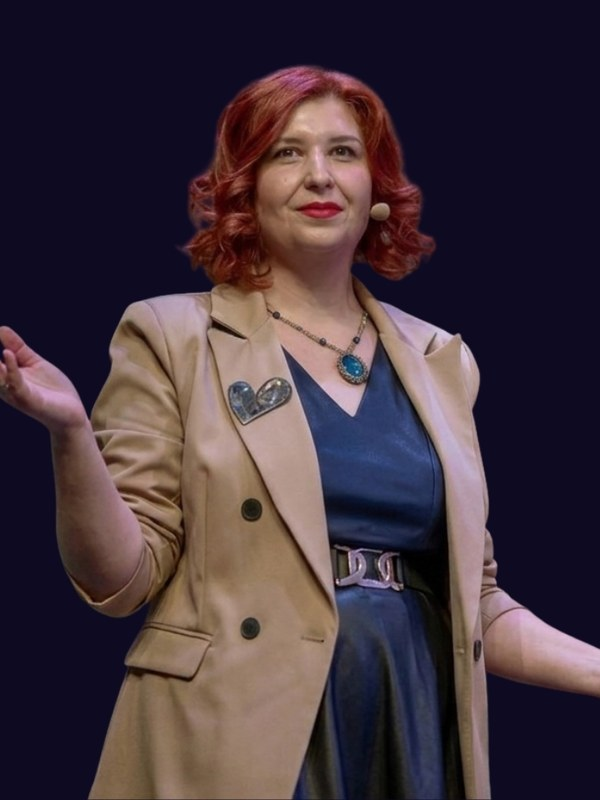
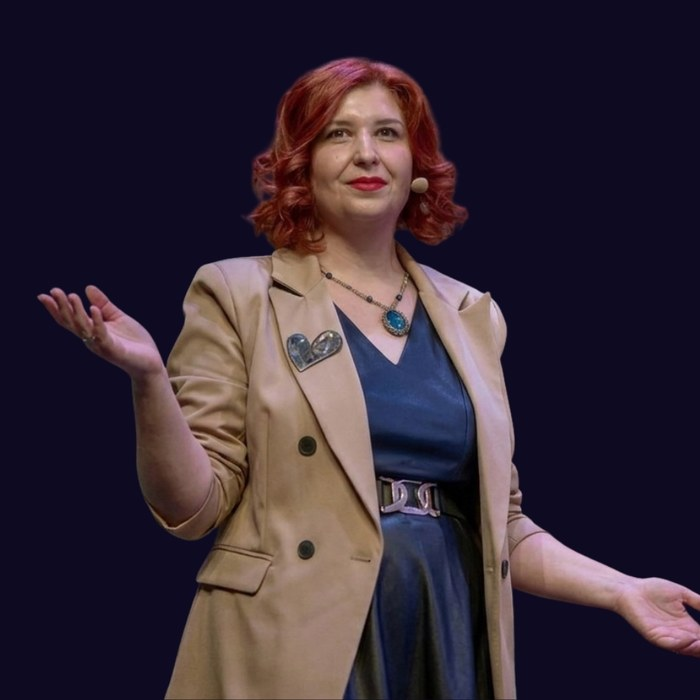
Shorten the author photo and align the CTA button on viitoruri
The author photo slot was 280x373 next to a ~310px text column, so the
image ran past the bio. Make the slot square and recrop tighter on the
subject.

Switch the footer CTA from the page-local btn-purple to the site-wide
btn btn-primary and reuse the standard "Hai sa vorbim" label.

diff --git a/viitoruri.html b/viitoruri.html
@@ -475,7 +475,7 @@
 
     /* autor */
     .autor-inner { display: grid; grid-template-columns: 280px 1fr; gap: 64px; align-items: start; }
-    .autor-photo img { width: 100%; border-radius: var(--radius-lg); aspect-ratio: 3/4; object-fit: cover; }
+    .autor-photo img { width: 100%; border-radius: var(--radius-lg); aspect-ratio: 1/1; object-fit: cover; }
     .autor-bio h2 { font-size: clamp(1.8rem, 3vw, 2.4rem); margin-bottom: 4px; }
     .autor-role { font-size: 0.9rem; color: var(--purple); font-weight: 600; margin-bottom: 24px; font-family: var(--font-mono); }
     .autor-bio p { font-size: 0.95rem; color: var(--text-sec); line-height: 1.8; margin-bottom: 24px; }
@@ -874,7 +874,7 @@
         <div class="container">
           <div class="autor-inner">
             <div class="autor-photo fade-up">
-              <img src="images/raluca-autor-viitoruri.jpg" alt="Raluca Păduraru — Futures of Work Strategist" width="600" height="800" loading="lazy" />
+              <img src="images/raluca-autor-viitoruri.jpg" alt="Raluca Păduraru — Futures of Work Strategist" width="700" height="700" loading="lazy" />
             </div>
             <div class="autor-bio fade-up delay-1">
               <h2 id="autor-heading">Raluca Păduraru</h2>
@@ -903,9 +903,9 @@
             <h2>Vrei să explorezi aceste scenarii cu echipa ta?</h2>
             <p>Raportul e un punct de plecare solid. Raluca oferă laboratoare de foresight strategic, programe de AI fluency și sesiuni de debrief personalizate.</p>
             <a href="https://calendar.app.google/97NFSpQYzKkJmkuL9" target="_blank" rel="noopener"
-               class="btn-purple"
+               class="btn btn-primary"
                onclick="gtag('event','cta_click',{event_category:'footer',event_label:'programeaza'})">
-              Programează o conversație
+              Hai să vorbim
               <svg width="16" height="16" viewBox="0 0 24 24" fill="none" stroke="currentColor" stroke-width="2.5" stroke-linecap="round" stroke-linejoin="round"><path d="M5 12h14M12 5l7 7-7 7"/></svg>
             </a>
           </div>
